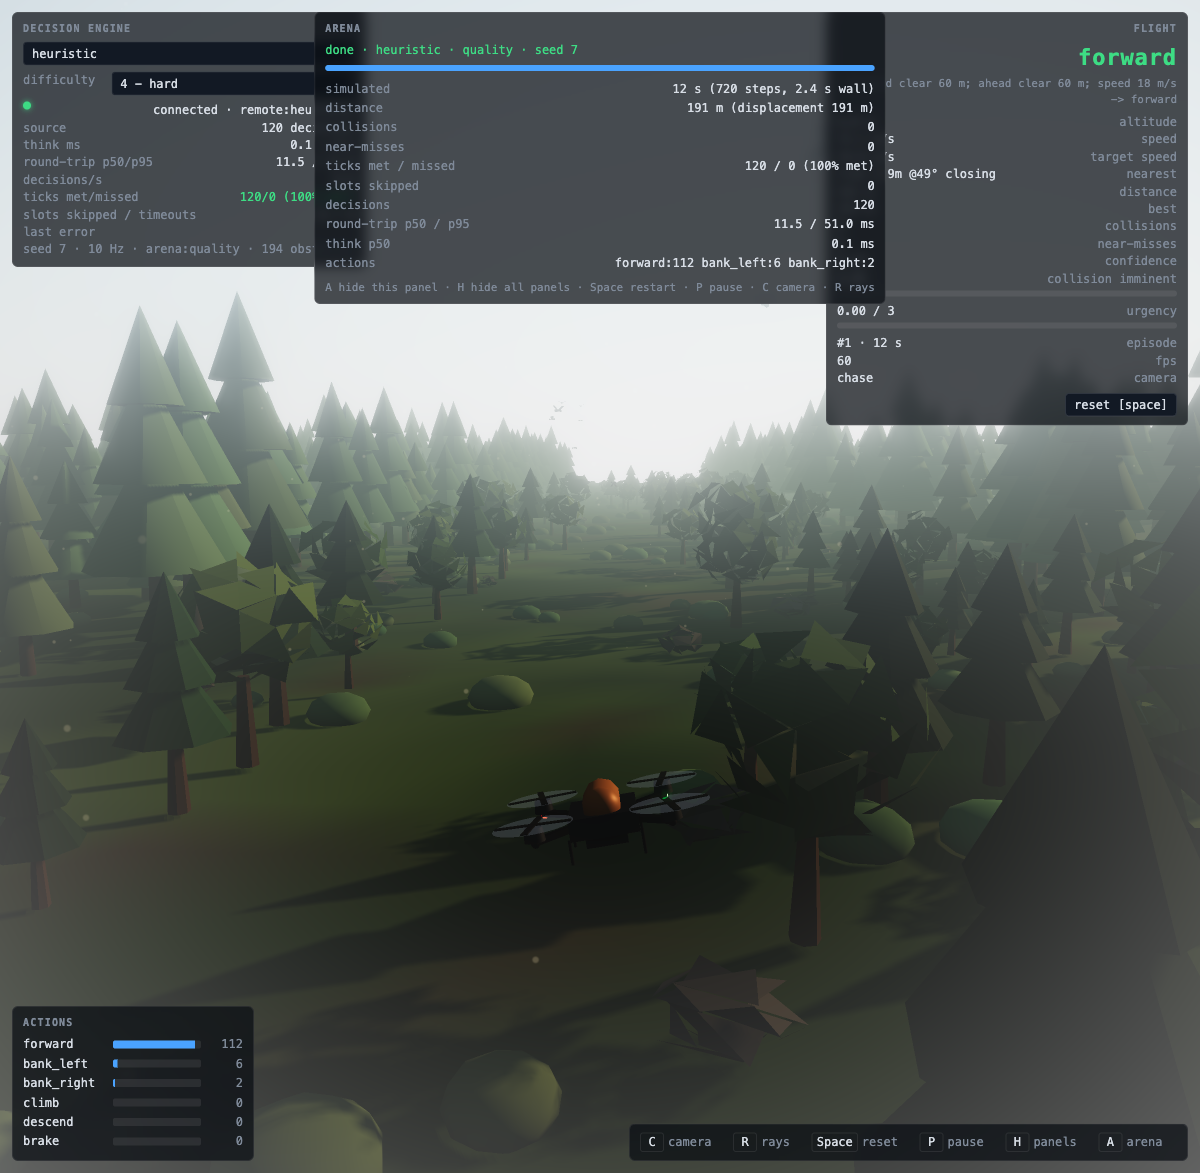
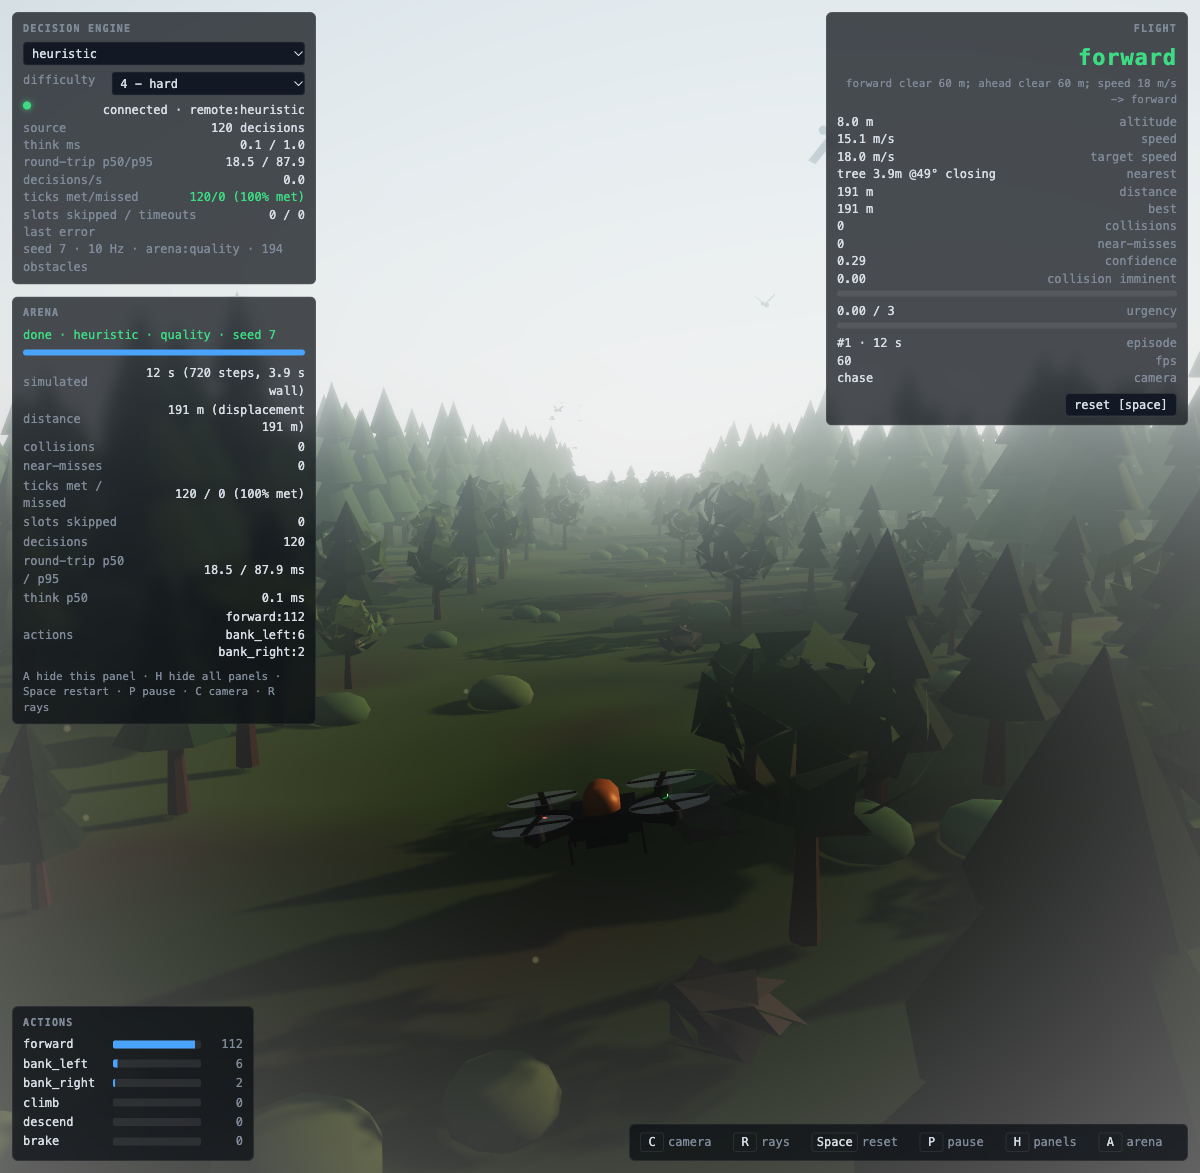
Drone Forest HUD: stack the arena panel under the engine panel
The top-centre dock overlapped both side panels at common widths. The
arena panel now lives in a left column directly beneath the decision-
engine panel (measured: engine 12-284 px, arena 296-725 px, no overlap
with the flight or histogram panels at 1200x1173), so it never covers
the drone. A still dismisses it; H hides every panel.

Changed region(s): [[0.0, 0.0, 0.74, 0.6445], [0.1542, 0.1535, 0.185, 0.1841]]

diff --git a/drone-forest/web/src/hud/hud.css b/drone-forest/web/src/hud/hud.css
@@ -40,7 +40,9 @@
 .hud .flight  { top: 12px; right: 12px; text-align: right; }
 .hud .hist    { bottom: 12px; left: 12px; }
 .hud .keys    { bottom: 12px; right: 12px; color: var(--hud-dim); min-width: 0; }
-.hud .arena   { top: 12px; left: 50%; transform: translateX(-50%); min-width: 300px; max-width: 46vw; max-height: 42vh; overflow: auto; }
+.hud .col.left { position: absolute; top: 12px; left: 12px; display: flex; flex-direction: column; gap: 12px; width: 304px; max-height: calc(100vh - 24px); pointer-events: none; }
+.hud .col.left .panel { position: static; transform: none; width: 100%; box-sizing: border-box; pointer-events: auto; }
+.hud .arena   { max-height: 46vh; overflow: auto; }
 .hud.panels-hidden .panel { display: none; }
 .hud .arena .hint { margin-top: 6px; color: var(--hud-dim); font-size: 11px; }
 

diff --git a/drone-forest/web/src/hud/index.ts b/drone-forest/web/src/hud/index.ts
@@ -243,7 +243,11 @@ export function createHud(root: HTMLElement, opts: HudOptions = {}): Hud {
   arena.append(el('div', 'hint', 'A hide this panel · H hide all panels · Space restart · P pause · C camera · R rays'));
 
   const flashEl = el('div', 'flash');
-  container.append(flashEl, engine, flight, hist, keys, arena);
+  // left column: the engine panel with the arena panel stacked directly beneath it, so the
+  // arena never overlaps the side panels and never covers the drone in the centre of the view
+  const colLeft = el('div', 'col left');
+  colLeft.append(engine, arena);
+  container.append(flashEl, colLeft, flight, hist, keys);
 
   // ---- rendering
   let lastRender = -Infinity;

diff --git a/drone-forest/README.md b/drone-forest/README.md
@@ -160,9 +160,10 @@ The HUD shows `target speed` next to actual speed; arena results carry `mean_spe
 
 `C` camera (chase / nose) · `R` sensor rays · `P` pause (play and arena) · `Space` reset (in an
 arena: restart the run) · `H` hide/show every panel · `A` hide/show the arena panel. The arena
-results panel docks at the top-centre so the drone stays visible; `A` dismisses it.
+results panel stacks directly under the decision-engine panel, so it never overlaps the
+other panels or covers the drone; `A` dismisses it.
 
-![arena results docked at the top, drone visible](docs/screenshot-arena-panel-docked.png)
+![arena results stacked under the engine panel, drone visible](docs/screenshot-arena-panel-docked.png)
 
 ## The wire protocol
 
